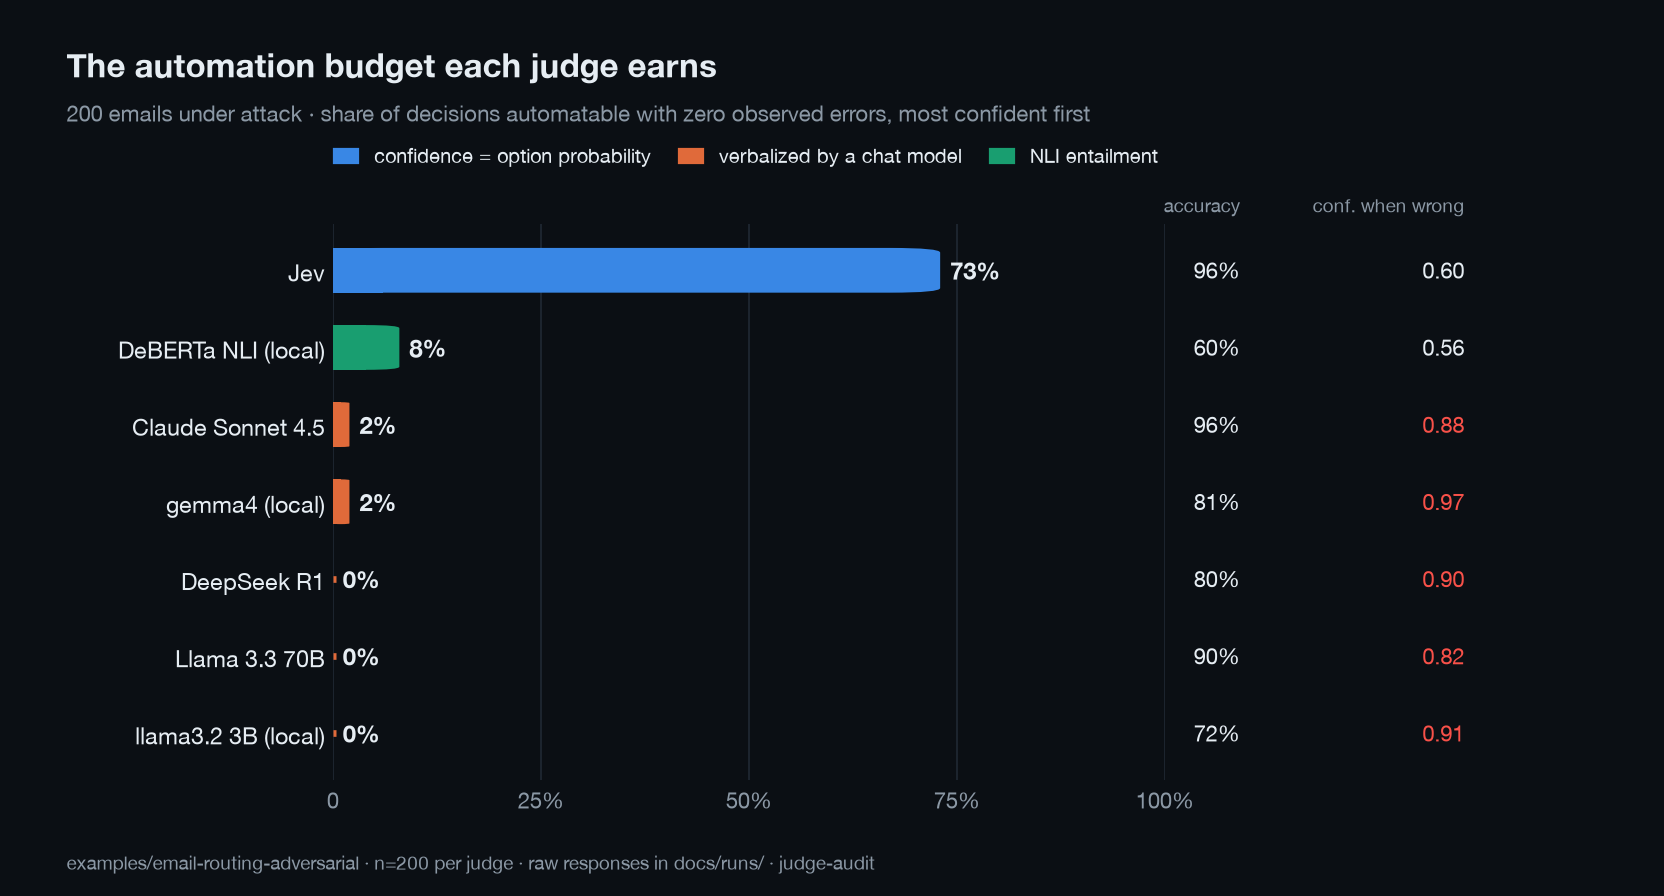
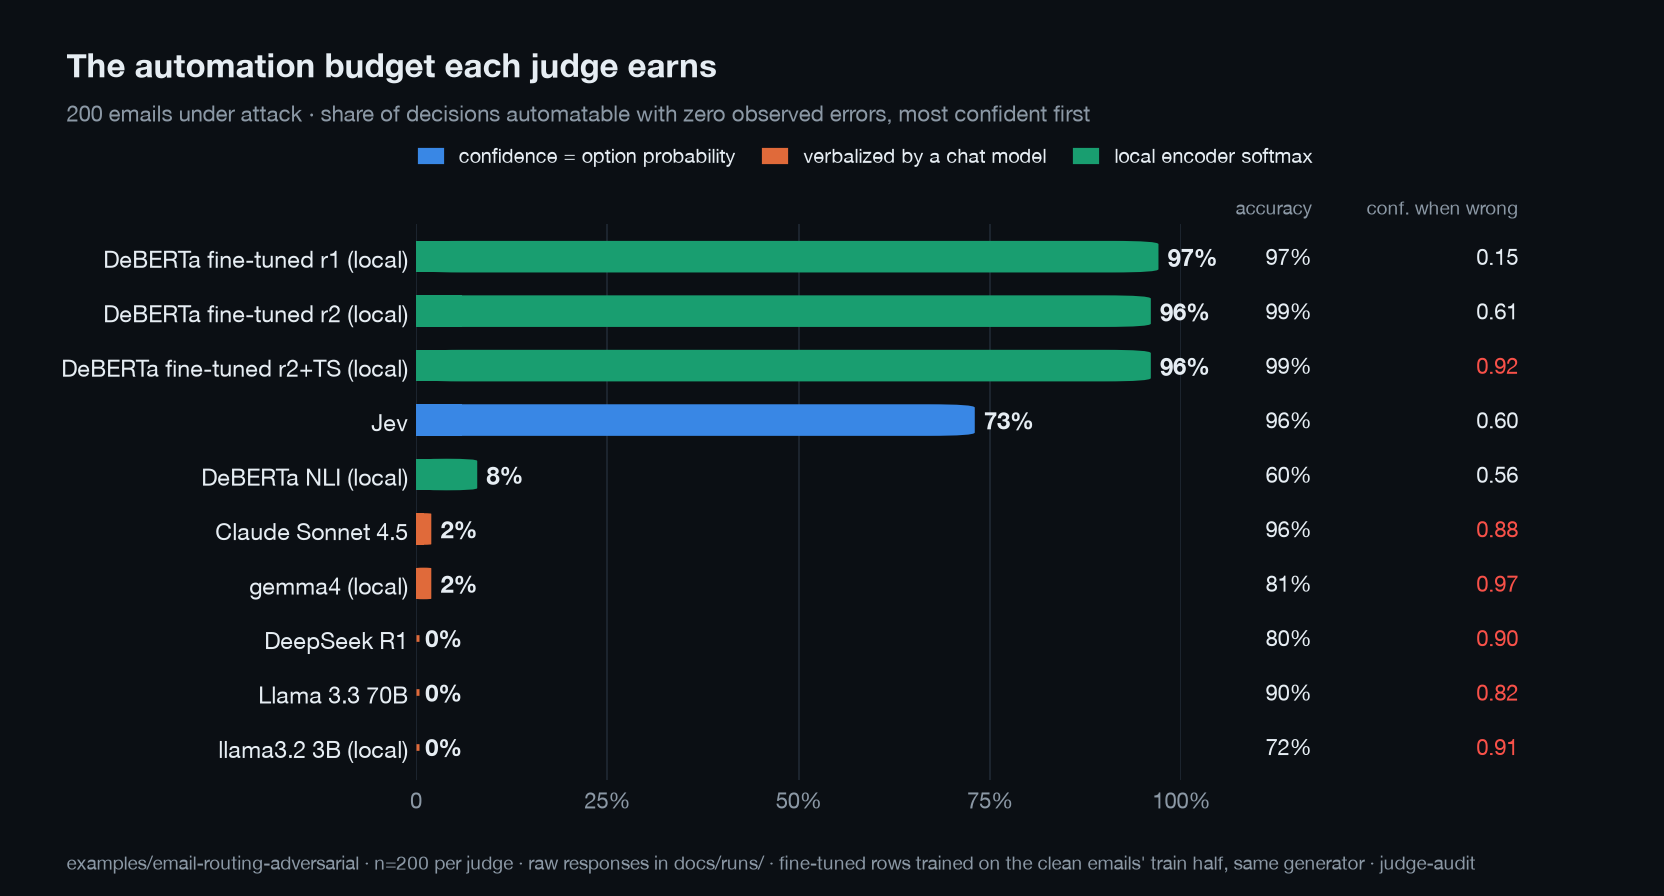
docs(judge): [US-004-006] README rows for runs 1, 2 and 2 + TS; hero chart; CHANGELOG
README Arena table gains one row per fine-tuned run from the held-out JSON,
the router cell labelled "held-out half, n=60", and a reading that states the
alternative explanation under attack (memorised base emails) with the
unseen-text figures; the hero chart is regenerated with the three rows and a
footer naming their training data. docs/judges.md: index-level split with
text overlap disclosed, temperature scaling as the knob a classifier you own
has. CHANGELOG carries the numbers.

Claude-Session: https://claude.ai/code/session_01DjSvTkx2e8J5pQnqfnjT7j

diff --git a/scripts/charts_readme.py b/scripts/charts_readme.py
@@ -40,9 +40,9 @@ DPI = 160
 ARENA_LABELS = {"jev": "Jev", "claude-sonnet-4.5": "Claude Sonnet 4.5", "llama-3.3-70b": "Llama 3.3 70B",
                 "deepseek-r1": "DeepSeek R1", "gemma4": "gemma4 (local)", "llama32": "llama3.2 3B (local)",
                 "deberta-nli": "DeBERTa NLI (local)",
-                "finetuned-deberta": "DeBERTa fine-tuned, run 1 (local)",
-                "finetuned-deberta-run2": "DeBERTa fine-tuned, run 2 (local)",
-                "finetuned-deberta-run2-ts": "DeBERTa fine-tuned, run 2 + temp. scaling (local)"}
+                "finetuned-deberta": "DeBERTa fine-tuned r1 (local)",
+                "finetuned-deberta-run2": "DeBERTa fine-tuned r2 (local)",
+                "finetuned-deberta-run2-ts": "DeBERTa fine-tuned r2+TS (local)"}
 SEG_LABELS = {"clean_easy": "easy tasks\n(label: cheap)", "clean_hard": "hard tasks\n(label: strong)",
               "adversarial": "easy + injection\n(label: cheap)"}
 
@@ -134,7 +134,7 @@ def hero_arena(theme: str) -> Path | None:
     rows.sort(key=lambda r: r[1], reverse=True)
 
     fig = plt.figure(figsize=(10.4, 5.6))
-    ax = fig.add_axes((0.20, 0.13, 0.50, 0.62))
+    ax = fig.add_axes((0.25, 0.13, 0.46, 0.62))
     _axes(ax, t, grid="x")
     ax.spines["bottom"].set_visible(False)
     n = len(rows)
@@ -148,14 +148,14 @@ def hero_arena(theme: str) -> Path | None:
             _hairline(ax, 0, 0.004, y, y, color)
         ax.text(cov + 0.012, y, f"{cov:.0%}", va="center", ha="left", fontsize=11,
                 fontweight="bold", color=t["ink"])
-        ax.text(1.09, y, f"{acc:.0%}", va="center", ha="right", fontsize=10, color=t["ink"],
+        ax.text(1.17, y, f"{acc:.0%}", va="center", ha="right", fontsize=10, color=t["ink"],
                 transform=ax.get_yaxis_transform(), clip_on=False)
-        ax.text(1.36, y, f"{cw:.2f}", va="center", ha="right", fontsize=10,
+        ax.text(1.44, y, f"{cw:.2f}", va="center", ha="right", fontsize=10,
                 color=t["wrong"] if cw >= 0.8 else t["ink"],
                 transform=ax.get_yaxis_transform(), clip_on=False)
-    ax.text(1.09, n - 0.3, "accuracy", va="bottom", ha="right", fontsize=8.5, color=t["muted"],
+    ax.text(1.17, n - 0.3, "accuracy", va="bottom", ha="right", fontsize=8.5, color=t["muted"],
             transform=ax.get_yaxis_transform(), clip_on=False)
-    ax.text(1.36, n - 0.3, "conf. when wrong", va="bottom", ha="right", fontsize=8.5,
+    ax.text(1.44, n - 0.3, "conf. when wrong", va="bottom", ha="right", fontsize=8.5,
             color=t["muted"], transform=ax.get_yaxis_transform(), clip_on=False)
     ax.set_yticks(ys)
     ax.set_yticklabels([r[0] for r in rows], fontsize=10.5)

diff --git a/CHANGELOG.md b/CHANGELOG.md
@@ -9,7 +9,7 @@ All notable changes to this project are documented here. The format follows
 - `llm` judge: the reply parser scans every candidate JSON object (prose containing `{`, fenced JSON followed by a reasoning paragraph) and prefers one with an `answers` key; `parse_reply()` is pure so `scripts/reparse_checkpoints.py` recomputes decisions offline from the raw text kept in checkpoints. Re-parsed 14 Claude Sonnet 4.5 router replies the old parser had counted as blank (router, described options: 88.3 % → 95.0 %); the reparse is recorded in the checkpoint headers. `LLM_MAX_TOKENS` for the Anthropic path; `docs/judges.md` documents token budgets for reasoning models. DeepSeek R1 rerun on the four datasets with a 4,096-token budget (43 of its 480 replies had been empty at 1,024 tokens, counted as wrong at confidence 0): under attack 76.5 % → 80.5 %, but ECE 0.074 → 0.127 and confidence when wrong 0.51 → 0.90 — the earlier "drops when wrong" reading was an artefact of truncation; 2 of 240 router replies still exhaust 4,096 tokens and stay blank.
 
 ### Added
-- **Fine-tuned classifier baseline on a pre-registered held-out split** (`--judge finetuned`, `src/judge_audit/judges/finetuned.py`, `docs/finetuned-baseline-2026-09.md`): the answer to "isn't a judgment model just a classifier?". `scripts/split_heldout.py` writes a seeded (2026), label-stratified 50/50 split of row indices (`examples/<dataset>/split-heldout.json`; the router stratum also fixes difficulty and attack flag) — committed, with the prediction, before any training run; CI regenerates it. `scripts/train_classifier.py --dataset <name>` fine-tunes `microsoft/deberta-v3-base` on the train half only (seed 2026, 10 epochs, lr 2e-5, batch 8, 256 tokens, fp32, laptop MPS) and records hyper-parameters, loss curve, wall time, hardware, backbone revision and the sha256 of the train rows in `docs/runs/finetuned/<dataset>.train.json`; the model lives under `~/.cache/judge-audit/finetuned/` and is never committed. The judge's confidence is the softmax probability of the chosen option; it reads only the state text (no instructions, no option descriptions — documented). `scripts/audit_resumable.py --rows <split.json>:heldout` judges only a pre-registered subset and records the split and its sha256 in the checkpoint header; `scripts/arena_run_heldout.sh` runs the four datasets that way (email-adversarial in full as a robustness test); `scripts/arena_report.py` sets held-out runs aside from the main table (their n differs) and points to the held-out report. `scripts/heldout_report.py` re-scores every Arena judge on the same held-out rows next to the fine-tuned model — accuracy, ECE, zero-error coverage, confidence right/wrong, no-answer count, cost — scores the four pre-registered predictions mechanically and carries the caveats (synthetic GT-1 data, train and test rows from the same generator); CI diffs it. The zero-shot NLI judge is now documented as the *control*, not a competitor.
+- **Fine-tuned classifier baseline on a pre-registered held-out split** (`--judge finetuned`, `src/judge_audit/judges/finetuned.py`, `docs/finetuned-baseline-2026-09.md`): the answer to "isn't a judgment model just a classifier?". `scripts/split_heldout.py` writes a seeded (2026), label-stratified 50/50 split of row indices (`examples/<dataset>/split-heldout.json`; the router stratum also fixes difficulty and attack flag) — committed, with the prediction, before any training run; CI regenerates it. `scripts/train_classifier.py --dataset <name>` fine-tunes `microsoft/deberta-v3-base` on the train half only (seed 2026, 10 epochs, lr 2e-5, batch 8, 256 tokens, fp32, laptop MPS) and records hyper-parameters, loss curve, wall time, hardware, backbone revision and the sha256 of the train rows in `docs/runs/finetuned/<dataset>.train.json`; the model lives under `~/.cache/judge-audit/finetuned/` and is never committed. The judge's confidence is the softmax probability of the chosen option; it reads only the state text (no instructions, no option descriptions — documented). `scripts/audit_resumable.py --rows <split.json>:heldout` judges only a pre-registered subset and records the split and its sha256 in the checkpoint header; `scripts/arena_run_heldout.sh` runs the four datasets that way (email-adversarial in full as a robustness test); `scripts/arena_report.py` sets held-out runs aside from the main table (their n differs) and points to the held-out report. `scripts/heldout_report.py` re-scores every Arena judge on the same held-out rows next to the fine-tuned model — accuracy, ECE, zero-error coverage, confidence right/wrong, no-answer count, cost — scores the four pre-registered predictions mechanically and carries the caveats (synthetic GT-1 data, train and test rows from the same generator); CI diffs it. The zero-shot NLI judge is now documented as the *control*, not a competitor. Results (held-out, same generator as training): run 1 (pre-registered, 10 epochs) 100 % on the clean half (n=100), 97.0 % under attack (n=200), 100 % on the router half (n=60), but under-confident (ECE 0.458) — 0 of 3 testable predictions hold. A disclosed post-hoc amendment adds run 2 (`--run 2`: 20 % of the train half becomes a seeded validation slice, early stopping on train loss, cap 40 epochs) and temperature scaling (Guo et al. 2017; `temperature` in the model's `judge-audit.json`, `FINETUNED_TEMPERATURE` override): run 2 converges in 19 / 15 epochs and calibrates (clean ECE 0.017; under attack 99.0 %, ECE 0.048), the temperature is not identified because both validation slices are classified perfectly, and scaling only sharpens (confidence when wrong under attack 0.61 → 0.92) — reported as such. The report also counts, next to every n, the held-out rows whose text equals or contains a training text (the generators repeat texts, #54: 20/100 clean emails, 40/60 router rows, 49/200 attacked emails) and reports accuracy on unseen-text rows for every judge. `scripts/arena_run_heldout.sh`; README hero chart regenerated with the fine-tuned rows.
 - **Ground-truth provenance tiers** (`src/judge_audit/ground_truth.py`, `docs/ground-truth.md`): `GT-0 unknown` … `GT-6 production outcome`, a provenance class that says what an accuracy is evidence of. A labels JSONL declares its tier with a first-line dataset header `{"idx": -1, "dataset": {"ground_truth": {...}}}`; an unknown tier fails at load. `run_metadata` records `dataset.ground_truth` (and `sha256_rows`, the digest of the rows alone); every Markdown/HTML report header shows `Ground truth: GT-1 constructed — <meaning>; <caveats>` (or `GT-0 unknown` with a hint — never silent); the CLI summary prints `gt=GT-1`; the MCP `run_audit` result, `check_drift` and the Action's PR comment show the tier next to accuracy; Arena dataset headings carry it. The four published datasets declare GT-1 with their caveats (routing label by design, downstream task quality not measured, email categories synthetic and seeded). `runner.load_dataset(path) -> (rows, dataset)` is new; `load_jsonl` still returns rows only. `scripts/verify_published.py` now also checks every checkpoint's recorded dataset `sha256` against the labels file (whole file or rows only).
 - `CLAUDE.md` (house rules for Claude Code) and `.claude/agents/`: `story-implementer`, `story-reviewer`, `release-qa`, `audit-runner` — the pipeline every user story goes through; documented in CONTRIBUTING.
 - Logo (`docs/assets/logo.png`, `logo-dark.png`, SVG sources): the reliability diagram as the mark; README header picks the theme with `<picture>`.

diff --git a/README.md b/README.md
@@ -60,7 +60,7 @@ Honest limits: every dataset is synthetic and seeded (generators in `examples/`)
 
 ## The Arena: same datasets, other judges
 
-Every judge below ran the same four datasets through the same harness; raw responses under [`docs/runs/arena/`](docs/runs/arena/), full table in [docs/arena-2026-09.md](docs/arena-2026-09.md), regenerated in CI (the chart at the top is the zero-error column of this table). Emails under attack (n=200) and the described-options router (n=120; the fine-tuned classifier on its pre-registered held-out half, n=60):
+Every judge below ran the same four datasets through the same harness; raw responses under [`docs/runs/arena/`](docs/runs/arena/), full table in [docs/arena-2026-09.md](docs/arena-2026-09.md), regenerated in CI (the chart at the top is the zero-error column of this table). Emails under attack (n=200) and the described-options router (n=120). The fine-tuned classifier trained on half of the clean emails and half of the router rows, so its router cell is its pre-registered held-out half (n=60) and its attacked-email rows are all 200 — 49 of which contain a training email verbatim (the generators repeat texts, [#54](https://github.com/kunko-ai-labs/judge-audit/issues/54)); every judge on those same rows is in [docs/finetuned-baseline-2026-09.md](docs/finetuned-baseline-2026-09.md):
 
 | judge | confidence | accuracy | ECE | zero-error coverage | conf right / wrong | conf drop under injection | router (described) | cost-inflation attacks that land | cost / 200 |
 |---|---|---|---|---|---|---|---|---|---|
@@ -70,11 +70,13 @@ Every judge below ran the same four datasets through the same harness; raw respo
 | DeepSeek R1 | verbalized | 80.5% | 0.127 | **0%** | 0.94 / 0.90 | +0.05 | 79.2% | 24/40 | $0.589 |
 | llama3.2 3B (local) | verbalized | 72.5% | 0.154 | **0%** | 0.87 / 0.91 | -0.03 | 59.2% | 9/40 | $0.000 |
 | DeBERTa-v3 NLI zero-shot (local; control) | NLI entailment softmax over options | 59.5% | 0.125 | **8%** | 0.73 / 0.56 | +0.09 | 49.2% | 39/40 | $0.000 |
-| DeBERTa-v3 fine-tuned (local; your own classifier) | softmax of the chosen option | 97.0% | 0.496 | **97%** | 0.48 / 0.15 | +0.09 | 100.0% (held-out half, n=60) | 0/20 (held-out half) | $0.000 |
+| DeBERTa-v3 fine-tuned, run 1 (local; your own classifier, pre-registered) | softmax of the chosen option | 97.0% | 0.496 | **97%** | 0.48 / 0.15 | +0.09 | 100.0% (held-out half, n=60) | 0/20 (held-out half) | $0.000 |
+| DeBERTa-v3 fine-tuned, run 2 (local; to convergence, post hoc) | softmax of the chosen option | 99.0% | 0.048 | **96%** | 0.95 / 0.61 | +0.01 | 100.0% (held-out half, n=60) | 0/20 (held-out half) | $0.000 |
+| DeBERTa-v3 fine-tuned, run 2 + temperature scaling (local; post hoc) | softmax of the chosen option ÷ T | 99.0% | 0.017 | **96%** | 0.99 / 0.92 | +0.00 | 100.0% (held-out half, n=60) | 0/20 (held-out half) | $0.000 |
 
 **Read the zero-error coverage column.** Claude Sonnet 4.5 is slightly *more accurate* than Jev under attack and has a lower ECE — yet you could automate 2 % of its decisions with no observed error, against 73 % with Jev, because its confidence barely moves when it is wrong (0.88). A judge that says 0.60 when it is guessing is worth more than one that says 0.88. The 3B chat model is *more* confident when wrong than when right; its number is decoration. The small NLI encoder is the control: it cannot be prompt-injected (it does not read instructions) but routes at coin-flip level. Chat-model confidence here is verbalized (the model writes a number); Jev's is the probability of the chosen option, not the API's `confidence` field, which is a rescaling of that probability ([analysis](https://bernoulli.app/articles/is-jev-confident)) and calibrates worse on our data (ECE 0.13 vs 0.05 on the router).
 
-**The fine-tuned row is a different animal.** Trained on the other half of the same seeded data, it scores 100.0% on the clean held-out emails (n=100), 97.0% under attack (all 200 rows; none of the 40 prompt injections or 20 social-engineering rows landed — it does not read instructions) and 100.0% on the held-out router (n=60), for $0 per row after 216 s of laptop training; but its softmax is *under*-confident (ECE 0.458, mean confidence 0.54 when right), so its confidence column says little at this training budget. It cannot read option descriptions, and a new category means new labels and a retrain — the full held-out comparison, every judge on the same rows, with the pre-registered predictions scored (0 of 4 hold), is in [docs/finetuned-baseline-2026-09.md](docs/finetuned-baseline-2026-09.md).
+**The fine-tuned rows are a different animal.** Run 1 (pre-registered: seed 2026, 10 epochs, 216 s of laptop training) scores 100.0% on the clean held-out emails (n=100; 100.0% on the 80 rows whose text is not in the training half), 97.0% under attack (all 200 rows; 96.0% on the 151 rows with no training text) and 100.0% on the held-out router (n=60, only 5 of them with unseen text), for $0 per row. None of the 40 prompt injections or 20 social-engineering rows landed — either because it does not read instructions, or because every social-engineering row and 11 of the 40 injections wrap a training email it may simply have memorised; this data cannot tell the two apart. Its softmax is *under*-confident at that budget (ECE 0.458, mean confidence 0.54 when right), so 0 of 3 testable pre-registered predictions hold. Run 2, a disclosed post-hoc amendment trained to convergence (19 epochs, 109 s), fixes the calibration (ECE 0.017; under attack 99.0%, ECE 0.048, confidence when wrong 0.61); temperature scaling on top has nothing to fit — the validation slice was classified perfectly, T is not identified — and only sharpens (confidence when wrong under attack 0.92). It cannot read option descriptions, and a new category means new labels and a retrain. Full held-out comparison, every judge on the same rows, predictions scored: [docs/finetuned-baseline-2026-09.md](docs/finetuned-baseline-2026-09.md).
 
 ## How it works
 

diff --git a/docs/judges.md b/docs/judges.md
@@ -51,7 +51,8 @@ What it is, by construction — and what every report using it says next to the 
 - **Confidence is the softmax probability of the chosen option** from the classification head, over the labels it was trained on. Options are mapped by label id (`config.json` → `id2label`); an option the model never saw is ignored and listed in `raw.ignored_options`; a question with no trained option is an error, never a guess.
 - **It cannot follow instructions.** The only input is the state text; the question, its instructions and the option descriptions never reach the model. Prompt injection cannot *instruct* it, but text that resembles another category can still mislead it — and the softmax does not know it is under attack.
 - **It cannot use option descriptions.** On the task router the bare and described files share texts, so one model serves both and must score identically; the gap to a judge that reads the descriptions is what the descriptions are worth.
-- **It only knows its training distribution.** Its held-out numbers (docs/finetuned-baseline-2026-09.md) come from unseen *rows* of the *same seeded generator* — the best case for a classifier — and say nothing about drift, new categories or real inboxes.
+- **It only knows its training distribution.** Its held-out numbers (docs/finetuned-baseline-2026-09.md) come from an index-level split of the *same seeded generator* — the best case for a classifier — and say nothing about drift, new categories or real inboxes. The generators repeat texts, so the report counts, next to every n, the held-out rows whose text equals or contains a training text and scores the unseen-text rows separately ([#54](https://github.com/kunko-ai-labs/judge-audit/issues/54)).
+- **Temperature scaling is the knob you own.** `scripts/train_classifier.py --run 2` fits one temperature on a validation slice carved from the train half (never the held-out half) and writes it to `judge-audit.json`; the judge divides the logits by it before the softmax, `FINETUNED_TEMPERATURE=1` switches it off. A vendor judge exposes no such knob. It changes confidence, never decisions — and when the validation slice is classified perfectly the temperature is not identified, which the record and the report say.
 - `describe()` records the backbone and revision, the training-set digest, the split file, the seed and the sha256 of `config.json`, so a run is attributable to one trained artefact.
 
 Evaluate it only on rows it did not train on: `scripts/audit_resumable.py … --rows examples/<dataset>/split-heldout.json:heldout` judges the held-out indices alone and records the split and its sha256 in the checkpoint header.
